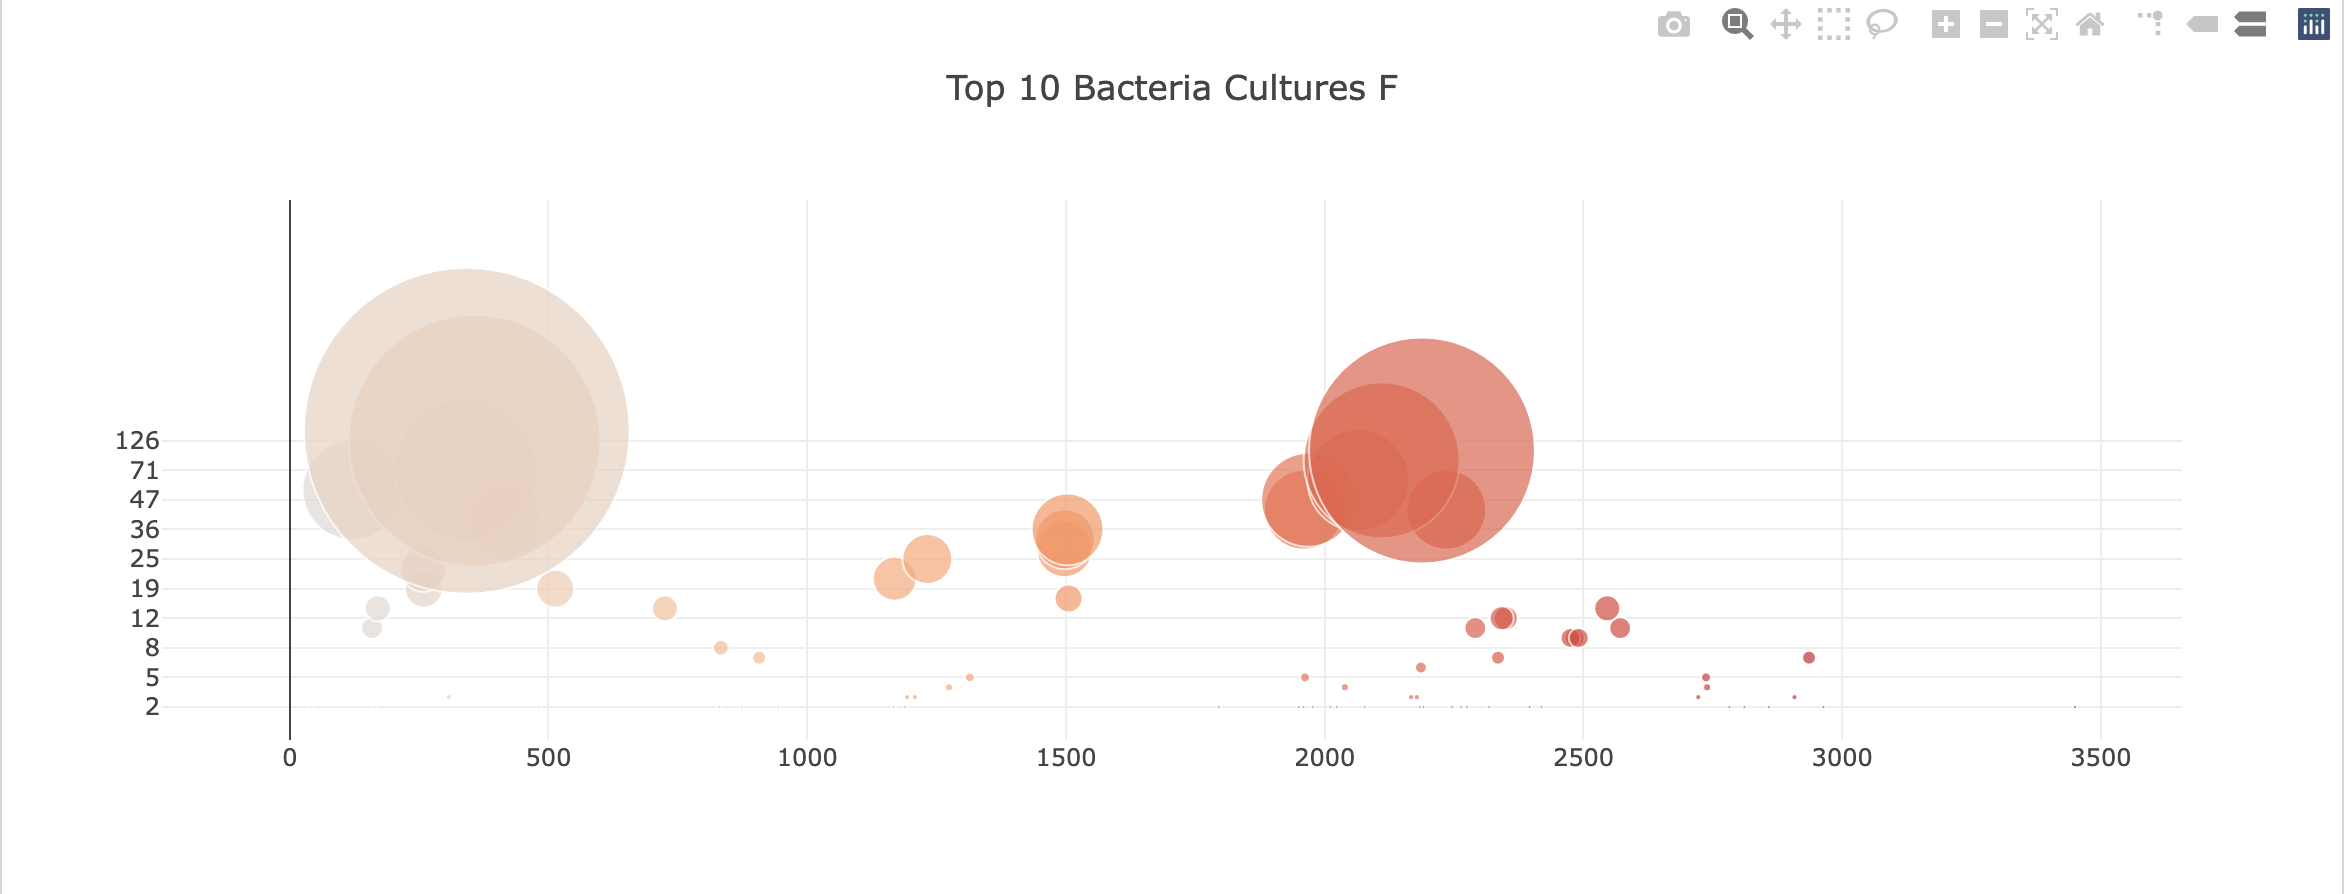
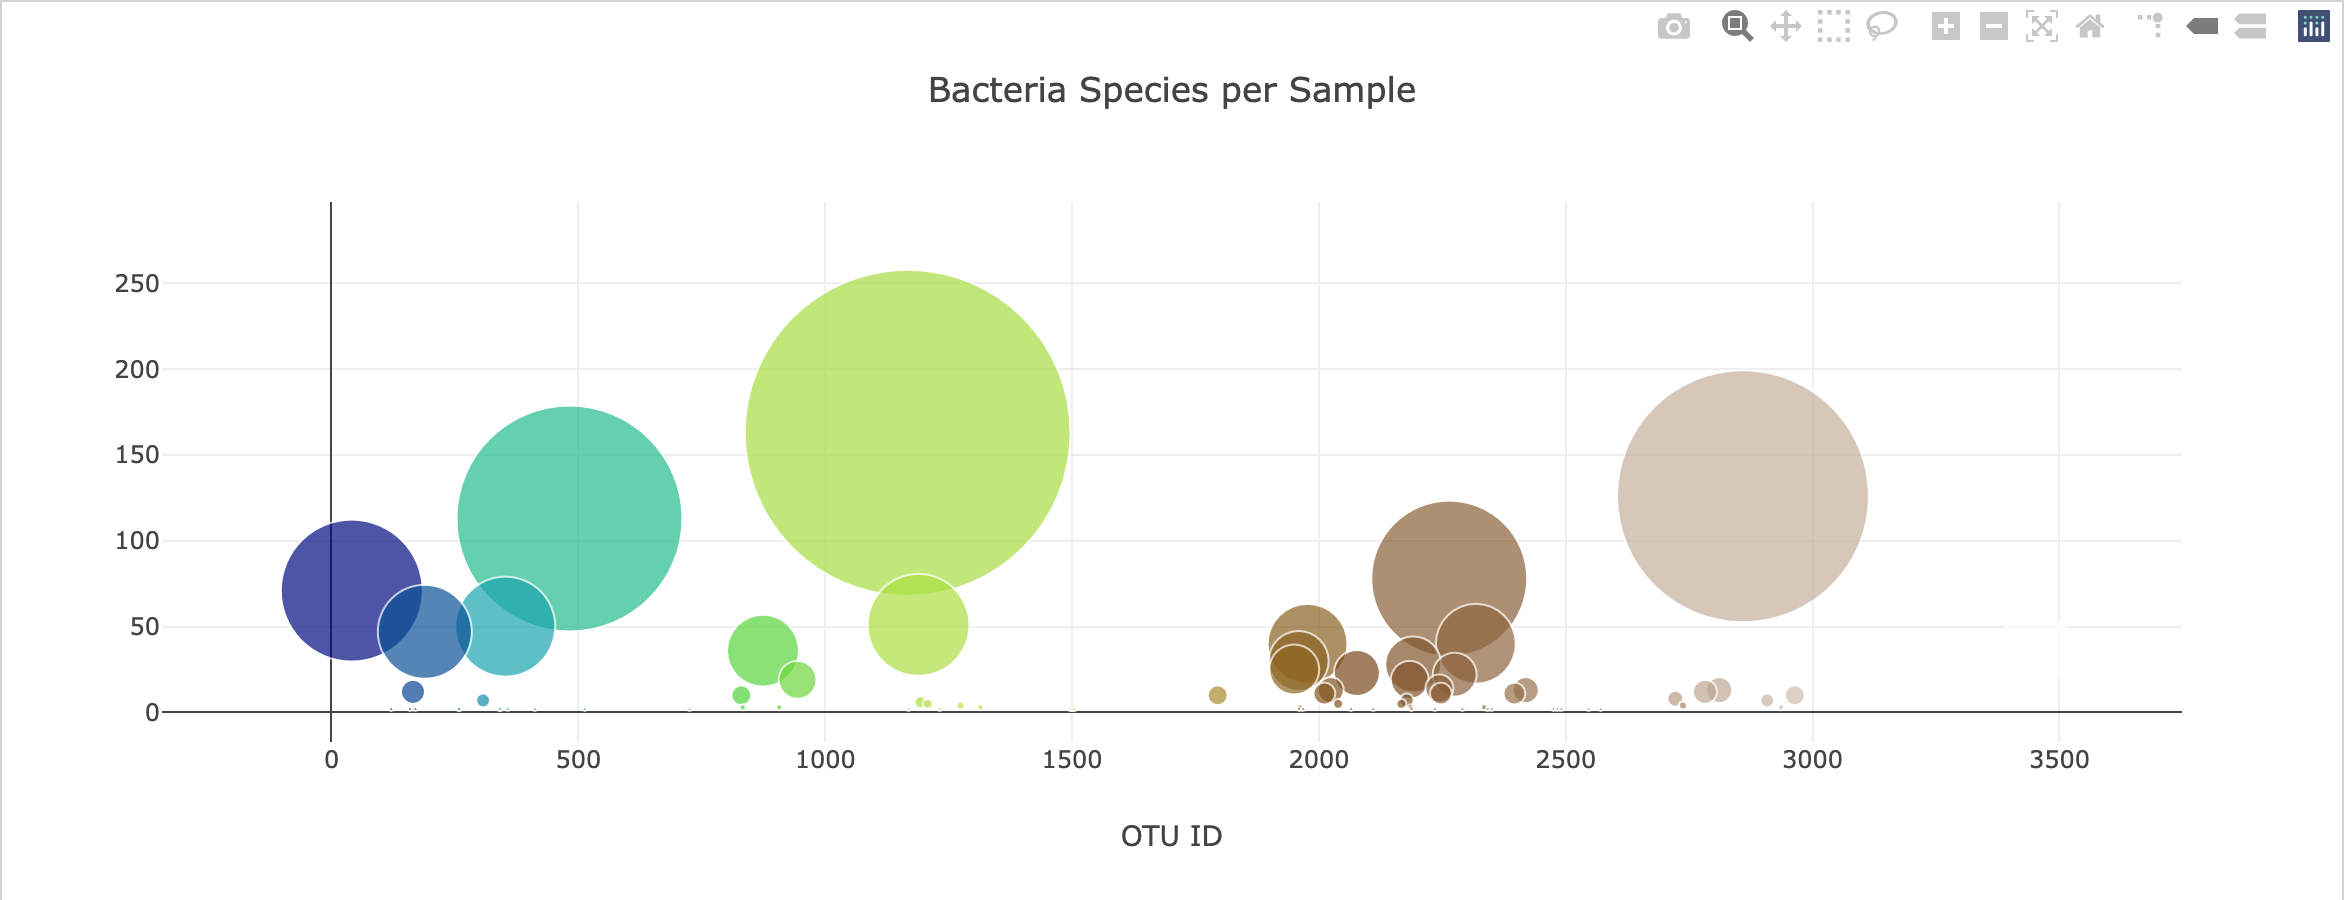
final update

diff --git a/Challenge/charts.js b/Challenge/charts.js
@@ -1,7 +1,3 @@
-// d3.json("samples.json").then(function(data){
-//   console.log(data);
-// });
-
 function init() {
   // Grab a reference to the dropdown select element
   var selector = d3.select("#selDataset");
@@ -61,144 +57,104 @@ function buildMetadata(sample) {
 function buildCharts(sample) {
   // 2. Use d3.json to load and retrieve the samples.json file 
   d3.json("samples.json").then((data) => {
-    console.log(data);
     // 3. Create a variable that holds the samples array. 
     var samples = data.samples;
-
     // 4. Create a variable that filters the samples for the object with the desired sample number.
     var samplesArray = samples.filter(sampleObj => sampleObj.id == sample);
+    // (D3) 1. Create a variable that filters the metadata array for the object with the desired sample number.
+    var metaArray = data.metadata.filter(sampleObj => sampleObj.id == sample);
     //  5. Create a variable that holds the first sample in the array.
-    var sampleResult = samplesArray[0];
+    var firstSample = samplesArray[0]
+    // (D3) 2. Create a variable that holds the first sample in the metadata array.
+    var firstMeta = metaArray[0]
 
     // 6. Create variables that hold the otu_ids, otu_labels, and sample_values.
-    var otu_ids = sampleResult.otu_ids; 
-    var otu_labels = sampleResult.otu_labels; 
-    var sample_values = sampleResult.sample_values; 
+    var otu_ids = firstSample.otu_ids;
+    var otu_labels = firstSample.otu_labels;
+    var sample_values = firstSample.sample_values;
+    // (D3) 3. Create a variable that holds the washing frequency.
+    var wfreq = firstMeta.wfreq;
 
     // 7. Create the yticks for the bar chart.
     // Hint: Get the the top 10 otu_ids and map them in descending order  
     //  so the otu_ids with the most bacteria are last. 
-    // var sortedOtu_ids = samples.sort((a, b) => b.otu_ids - a.otu_ids);
 
-    // slicedOtu_ids = sortedOtu_ids.slice(0, 10); 
-    // var sortedSample_values = samples.sort((a, b) => b.sample_values - a.sample_values);
-
-    // slicedSample_values = sortedSample_values.slice(0, 10); 
-    // reversedSample_values = slicedSample_values.reverse();
-    // var newSample_values = reversedSample_values.map(object => object.sample_values);eversedOtu_ids = slicedOtu_ids.reverse();
-    // var yticks = reversedOtu_ids.map(object => object.otu_ids);
-
-    var sampleValues = sample_values.slice(0,10).reverse();
-    var sampleOtu_ids = otu_ids.slice(0,10).reverse();
-    var sampleOtu_labels = otu_labels.slice(0, 10).reverse();
-    
-    // 
+    var yticks = otu_ids.slice(0,10).map(otu_ids => `OTU ${otu_ids}`).reverse();
 
     // 8. Create the trace for the bar chart. 
-    var trace1 = {
-      x: sampleValues,
-      y: sampleOtu_ids.map(outId => `OTU ${outId}`),
-      text: sampleOtu_labels,
-      marker: {
-      color: 'blue'},
-      name: "Top 10 Bacteria Cultures Found",
-      type: "bar", 
+    var barData = [{
+      x: sample_values.slice(0, 10).reverse(),
+      y: yticks,
+      text: otu_labels.slice(0, 10).reverse(),
+      type: "bar",
       orientation: "h"
-    };
-
-    var barData = [trace1];
+    }];
     // 9. Create the layout for the bar chart. 
-    var layout = {
-      title: "Top 10 Bacteria Cultures F", 
-      yaxis: sampleOtu_ids, 
-      automargin: true
+    var barLayout = {
+     title: "Top 10 Bacteria Cultures Found",
+     margin: {
+       l: 100,
+       r: 100,
+       t: 100,
+       b:100
+     }
     };
     // 10. Use Plotly to plot the data with the layout. 
-    Plotly.newPlot("bar", barData, layout);
-  
+    Plotly.newPlot("bar", barData, barLayout);
 
-// Bar and Bubble charts
-    var trace2 = { 
-      x: otu_ids, 
-      y: sample_values.reverse(), 
-      text: otu_labels, 
-      mode: 'markers', 
-      marker:{
-        color: otu_ids,
-        size: sample_values 
-      }
-    }
+// Bubble and Gauge charts
     // 1. Create the trace for the bubble chart.
-    var bubbleData = [trace2];
+    var bubbleData = [{
+      x: otu_ids,
+      y: sample_values,
+      text: otu_labels,
+      mode: "markers",
+      marker: {
+        size: sample_values,
+        color: otu_ids,
+        colorscale: "Earth"
+      }
+    }];
 
     // 2. Create the layout for the bubble chart.
     var bubbleLayout = {
-      title: "Bacteria Cultures Per Sample", 
+      title: "Bacteria Species per Sample",
       xaxis: {title: "OTU ID"},
-      yaxis: {title: "Sample Value"},
-      hovermode: otu_labels,
+      hovermode: "closest",
       showlegend: false
     };
 
     // 3. Use Plotly to plot the data with the layout.
-    Plotly.newPlot("bubble", bubbleData, layout); 
+    Plotly.newPlot("bubble", bubbleData, bubbleLayout)
 
-// Building guage chart 
-
-
-    // 1. Create a variable that filters the metadata array for the object with the desired sample number.
-    metaResults = data.metadata.filter(sampleObj => sampleObj.id == sample);
-		console.log(metaResults); 
-
-    // Create a variable that holds the first sample in the array.
-    var metaArray = metaResults.filter(sampleObj => sampleObj.id == sample);
-    //  5. Create a variable that holds the first sample in the array.
-    var metaSampleResult = metaArray[0];
-
-    // 2. Create a variable that holds the first sample in the metadata array.
-    Object.entries(metaSampleResult ).forEach(
-			([key, value]) => d3.select("#sample-metadata"))
-
-    // 3. Create a variable that holds the washing frequency.
-    var wfreqs = metaSampleResult.wfreq;
-
-   
-    
     // 4. Create the trace for the gauge chart.
-    var gaugeData = [
-			{
-				domain: { x: [0, 1], y: [0, 1] },
-				value: wfreqs,
-				title: {text: '<b>Belly Button Washing Frequency</b> <br> Scrubs per week'},
-				type: "indicator",
-				mode: "gauge+number",
-				gauge: {
-					axis: { range: [null, 9] },
-          bar: { color: "grey" },
-          steps: [
-						{ range: [0, 1], color: 'crimson' },
-						{ range: [1, 2], color: 'red' },
-						{ range: [2, 3], color: 'yellow' },
-						{ range: [3, 4], color: 'green' },
-						{ range: [4, 5], color: 'teal' },
-						{ range: [5, 6], color: 'cornflowerblue' },
-						{ range: [6, 7], color: 'darkblue' },
-						{ range: [7, 8], color: 'purple' },
-						{ range: [8, 9], color: 'magenta' },
-					],
-				}
-			}
-		];
+    var gaugeData = [{
+      domain: {x: [0,1], y: [0,1]},
+      value: wfreq,
+      title: {text: "Belly Button Washing Frequency <br> Scrubs per Week"},
+      type: "indicator",
+      mode: "gauge+number",
+      gauge: {
+        axis: {range: [null,10]},
+        bar: {color: "black"},
+        steps: [
+          {range: [0, 2], color: "red"},
+          {range: [2, 4], color: "orange"},
+          {range: [4, 6], color: "yellow"},
+          {range: [6, 8], color: "lightgreen"},
+          {range: [8, 10], color: "green"}]
+        }
+      }
+    ];
     
     // 5. Create the layout for the gauge chart.
-    var gaugeLayout = { 
-      width: 600, 
-      height: 500, 
-      margin: { t: 0, b: 0 } };
+    var gaugeLayout = {
+      width: 500,
+      height: 460,
+      margin: {t: 0, b: 0}
+    };
 
     // 6. Use Plotly to plot the gauge data and layout.
-    Plotly.newPlot('gauge', gaugeData, gaugeLayout);
-
-  
-  })
-};
+    Plotly.newPlot("gauge", gaugeData, gaugeLayout);
+  });
+}

diff --git a/Challenge/index.html b/Challenge/index.html
@@ -14,18 +14,9 @@
   <div class="container">
     <div  class="row">
       <div class="col-md-12 jumbotron text-center">
-        <img src = "resources/human-microbiome.jpg" alt= "bacteria image" class="img-responsive" max-width: 100%; height: auto;>
+        <img src = "img/human-microbiome.jpg" alt= "bacteria image" class="img-responsive" max-width: 100%; height: auto;>
         <h1>Belly Button Biodiversity Dashboard</h1>
-        <p>Use the interactive charts below to explore the dataset by changing the ID number</p>
-        <h4>
-           Below is an interactive dashboard to explore the Belly Button Biodiversity dataset from a study where the microbes that colonize human navels were collected. 
-          </h4>
-          <h5>
-           <br>
-          The dataset reveals that a small handful of microbial species (also called operational taxonomic units, or OTUs, in the study) were present in more than 70% of people, while the rest were relatively rare.
-          <br>
-          
-        </h5>
+        <p>Use the interactive charts below to explore the dataset</p>
       </div>
     </div>
     <div class="row">
